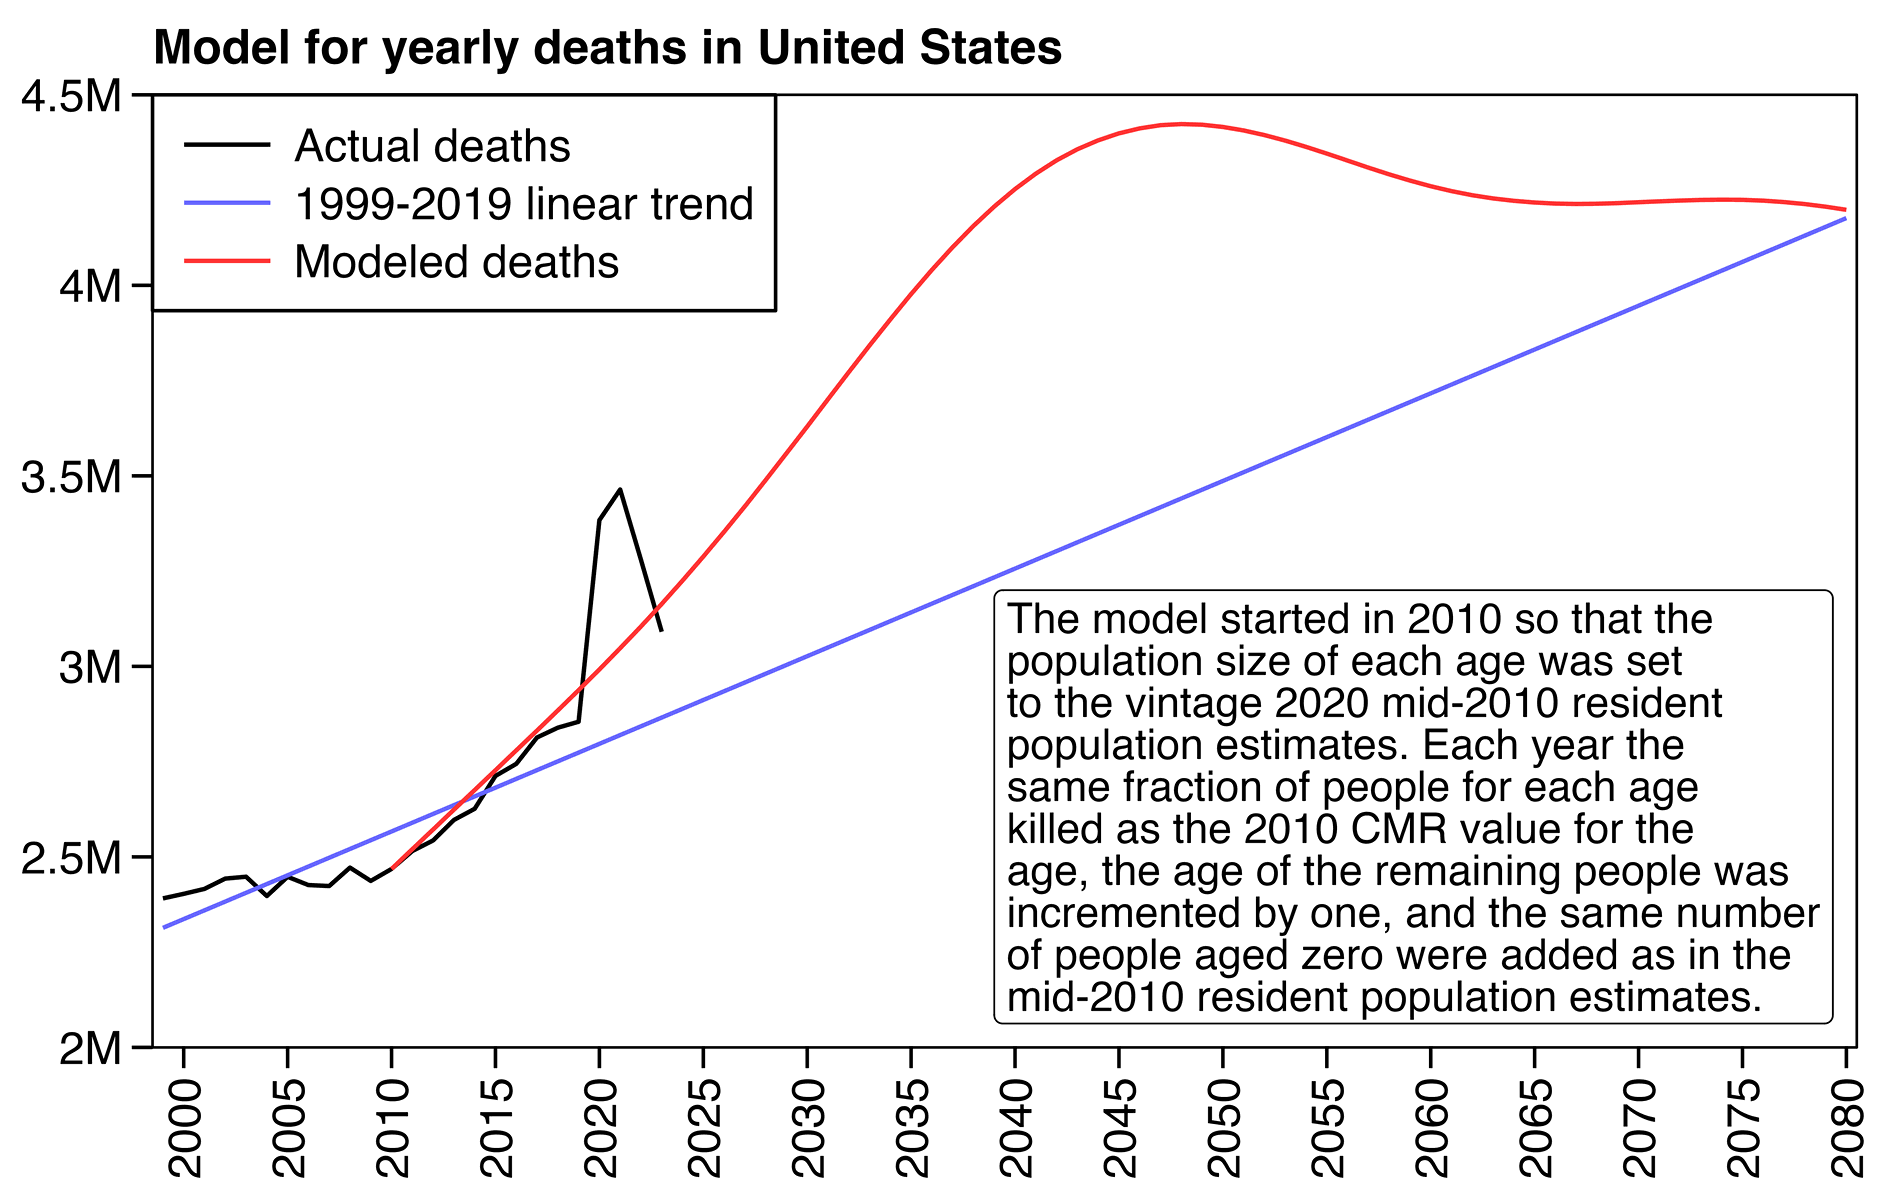
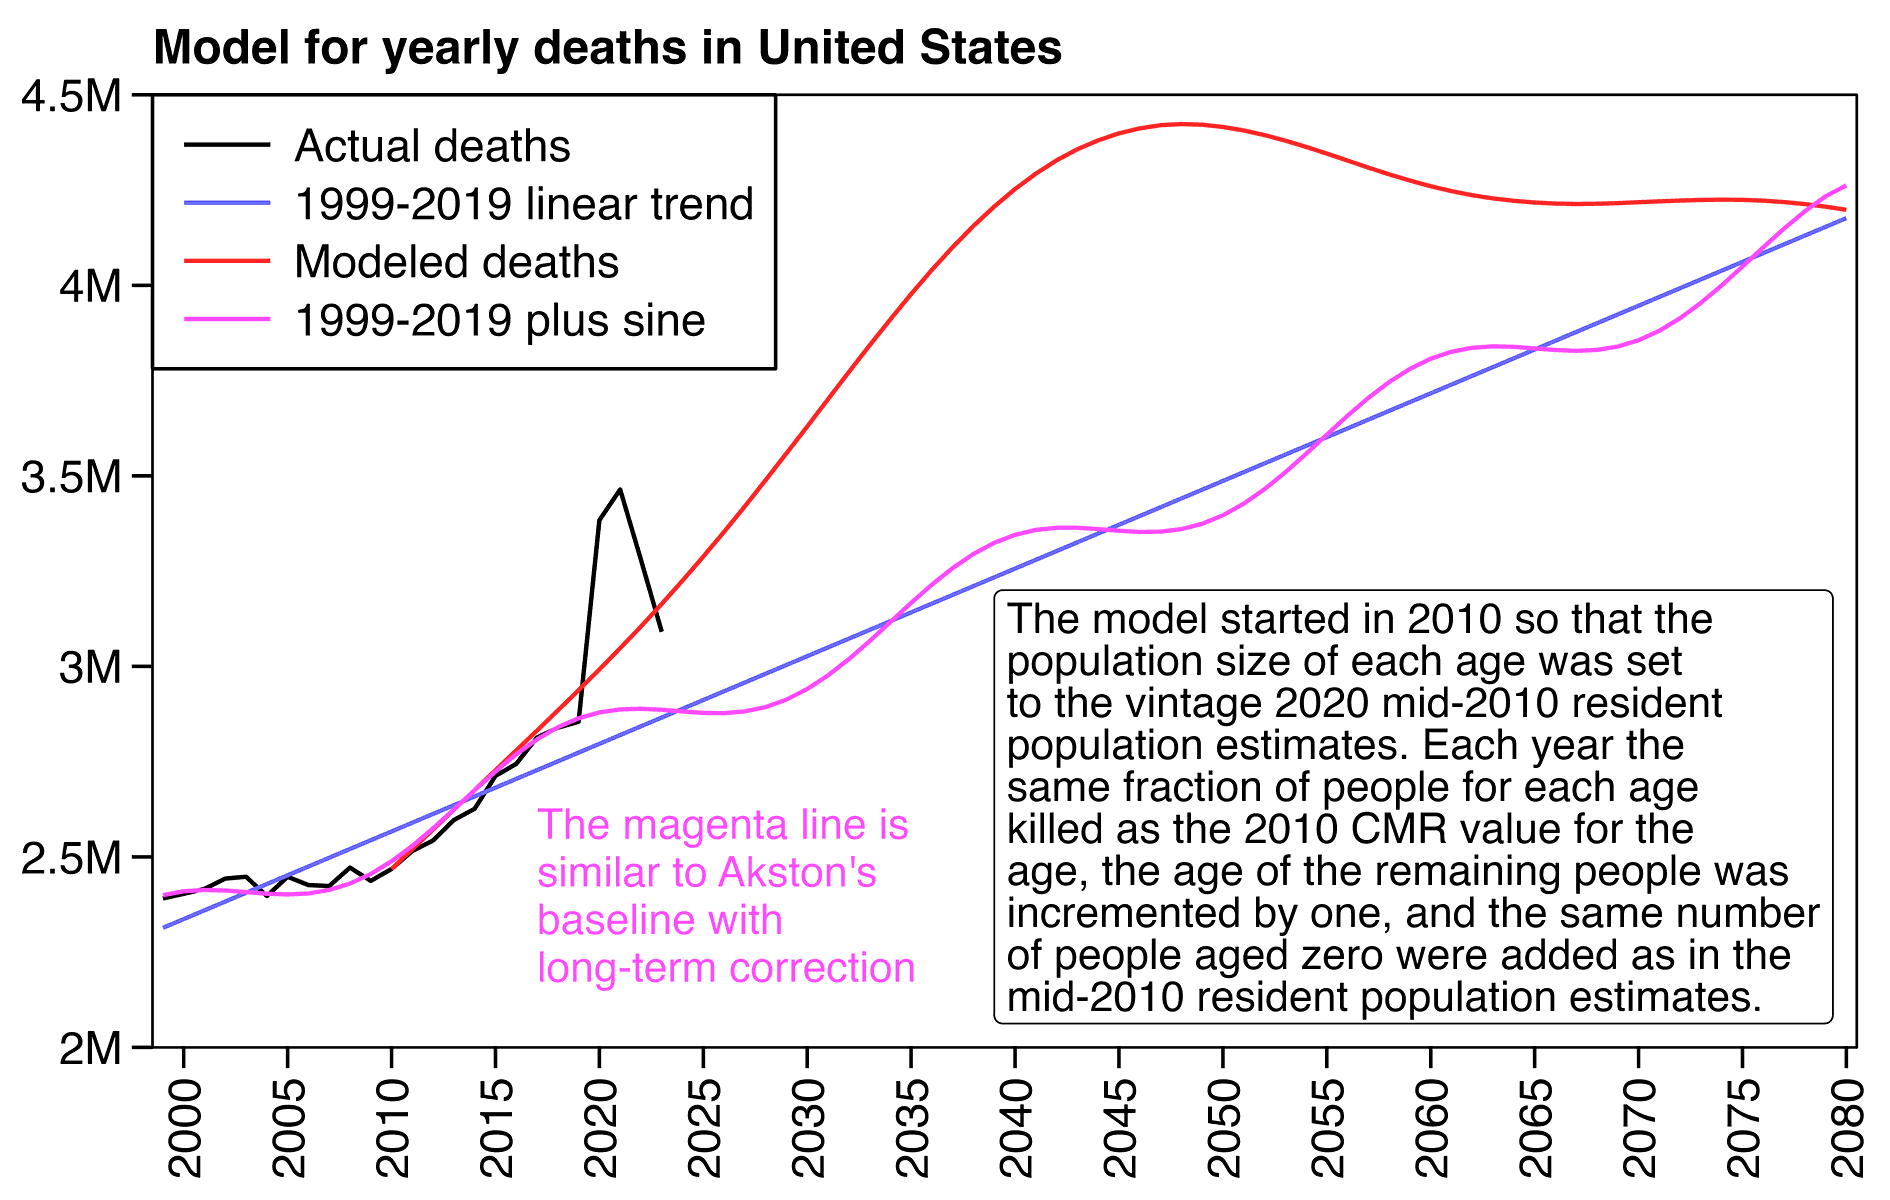
a

diff --git a/ethical2.html b/ethical2.html
@@ -69,7 +69,7 @@ blockquote blockquote blockquote,blockquote blockquote .quote,blockquote .quote 
 <li><a href=#PFE_arrival_function_determined_from_monthly_deaths_by_age>PFE arrival function determined from monthly deaths by age</a></li>
 <li><a href=#Deaths_with_secondary_thrombocytopenia>Deaths with secondary thrombocytopenia</a></li>
 <li><a href=#Deaths_from_natural_causes_in_ages_2_17>Deaths from natural causes in ages 2-17</a></li>
-<li><a href=#Cancer_mortality_in_ages_0_64_in_most_vaccinated_and_least_vaccinated_states>Cancer mortality in ages 0-64 in most-vaccinated and least vaccinated states</a></li>
+<li><a href=#Cancer_mortality_in_ages_0_64_in_most_vaccinated_and_least_vaccinated_states>Cancer mortality in ages 0-64 in most-vaccinated and least-vaccinated states</a></li>
 <li><a href=#Would_using_ASMR_instead_of_raw_deaths_produce_an_invalid_decline_in_mortality>Would using ASMR instead of raw deaths produce an invalid decline in mortality?</a></li>
 <li><a href=#Deaths_from_lung_cancer>Deaths from lung cancer</a></li>
 <li><a href=#Hugh_Akstons_corroboration_of_Ethical_Skeptics_plot_for_cancer_mortality>Hugh Akston's corroboration of Ethical Skeptic's plot for cancer mortality</a></li>
@@ -825,7 +825,7 @@ pheatmap::pheatmap(sign(m)*abs(m)^exp,filename=&quot;1.png&quot;,display_numbers
 system(&quot;convert 1.png -extent 2000x 1.png;w=`identify -format %w 1.png`;pad=26;magick -pointsize 44 -font Arial \\( -size $[w-pad] caption:&#39;NVSS, ages 2 to 17: Excess number of deaths by underlying cause of death relative to 2015-2019 linear trend, top 40 causes shown sorted by 2020-2022 total&#39; -splice $[pad]x24 \\) 1.png -append 1.png&quot;)</pre>
 </div>
 <h2>
-<a href=#Cancer_mortality_in_ages_0_64_in_most_vaccinated_and_least_vaccinated_states id=Cancer_mortality_in_ages_0_64_in_most_vaccinated_and_least_vaccinated_states>Cancer mortality in ages 0-64 in most-vaccinated and least vaccinated states</a>
+<a href=#Cancer_mortality_in_ages_0_64_in_most_vaccinated_and_least_vaccinated_states id=Cancer_mortality_in_ages_0_64_in_most_vaccinated_and_least_vaccinated_states>Cancer mortality in ages 0-64 in most-vaccinated and least-vaccinated states</a>
 </h2>
 <p>Ethical Skeptic posted this tweet: [<a href="https://x.com/EthicalSkeptic/status/1864758742954442778">https://x.com/EthicalSkeptic/status/1864758742954442778</a>]</p>
 <blockquote>
@@ -1042,7 +1042,7 @@ a=merge(fread(&quot;http://sars2.net/f/uspopdeadmonthly.csv&quot;),a)
 a[,x:=year*12+month]
 a=merge(a[year%in%2011:2019,.(x=unique(a$x),base=predict(lm(y/persondays~x),.(x=unique(a$x)))),.(age,type)],a)
 
-t=fread(&quot;d/cd/wonderlungcancerallage&quot;)[!(year==2024&amp;month&gt;=11)]
+t=fread(&quot;http://sars2.net/f/wonderlungcancerallage.csv&quot;)[!(year==2024&amp;month&gt;=11)]
 p=dcast(t,year+month~type,value.var=&quot;dead&quot;)
 p=p[,.(x=year*12+month,year,month,y=c(mcd,mcd-nafill(and,,0),ucd),type=rep(1:3,each=.N),group=1)]
 p=p[!(x&lt;t[type==&quot;and&quot;,min(year*12+month)]&amp;type==2)]
@@ -1280,85 +1280,70 @@ system(&quot;magick 1.png -resize 25% PNG8:1.png&quot;)</pre>
 Show code
 </button><pre>library(data.table);library(ggplot2)
 
-ua=\(x,y,...){u=unique(x);y(u,...)[match(x,u)]}
+xstart=1999;xend=2080
 
-t=fread(&quot;http://sars2.net/f/wondernatural.csv&quot;)[cause==&quot;A-Q&quot;&amp;date&lt;=&quot;2024-08&quot;]
-p=na.omit(t[,.(dead=sum(dead)),.(x=as.Date(paste0(date,&quot;-1&quot;)))])
-p[,dead:=dead/days_in_month(x)*30]
+t=fread(&quot;http://sars2.net/f/uspopdead.csv&quot;)
+p=t[,.(y=sum(dead),z=&quot;Actual deaths&quot;),.(x=year)]
+cmr=t[year==2010,dead/pop]
+pop=t[year==2010,pop]
+births=pop[1]
+sim=data.table(x=NA,y=NA)
+for(year in 2010:xend){
+  died=pop*cmr;pop=pop-died
+  pop=c(births,pop[1:99],sum(pop[100:101]))
+  sim=rbind(sim,list(year,sum(died)))
+}
 
-ages=t[,.(x=as.Date(paste0(date,&quot;-1&quot;)),age,dead)]
+p=rbind(p,p[,.(x=xstart:xend,y=p[x&lt;2020,predict(lm(y~x),.(x=xstart:xend))],z=&quot;1999-2019 linear trend&quot;)])
+p=rbind(p,sim[,z:=&quot;Modeled deaths&quot;])
+p[,z:=factor(z,unique(z))]
 
-p$linear=p[year(x)&lt;2020,predict(lm(dead~x),p)]
-p[,excess:=cumsum(dead-linear)]
-
-p2=copy(p)[,x:=as.integer(x)]
-fit=nls(excess~A*sin(B*x+C)+D,p2[year(p$x)&lt;2020],
-  list(A=(max(p2$excess)-min(p2$excess))/2,B=2*pi/(max(p2$x)-min(p2$x)),C=0,D=mean(p2$excess)),
+excess=merge(p[z==levels(z)[1]],p[z==levels(z)[2],.(x,y2=y)])[x&lt;2020,.(x,y=cumsum(y-y2))]
+fit=nls(y~A*sin(B*x+C)+D,excess,
+  list(A=excess[,max(y)-min(y)]/2,B=2*pi/excess[,max(x)-min(x)],C=0,D=mean(excess$y)),
   nls.control(maxiter=100,tol=1e-6))
-p$sine=predict(fit,p2)
 
-a=t[,.(x=as.Date(paste0(date,&quot;-1&quot;)),age,dead)]
-pop=fread(&quot;http://sars2.net/f/uspopdeadmonthly.csv&quot;)
-a=merge(a,pop[,.(pop=sum(persondays)),.(x=as.Date(paste0(date,&quot;-1&quot;)),age=cul(age,unique(a$age)))])
-a=merge(a,a[,.(x=unique(a$x),base=predict(lm(dead/pop~x),a[rowid(x)==1])),age])
+pred=diff(predict(fit,.(x=1998:2080)))[-1]
+p=rbind(p,p[z==levels(z)[2]][,y:=y+pred][,z:=&quot;1999-2019 plus sine&quot;])
 
-p$sinecum=p[,excess-sine]
-
-# sars2.net/stat.html#Download_fixed_width_and_CSV_files_for_the_NVSS_data_used_at_CDC_WONDER
-v=fread(&quot;vital.csv.gz&quot;)
-v=v[year%in%2011:2019&amp;ua(cause,like,&quot;[A-Q]&quot;)][,.(dead=sum(ucd)),.(year,month,age=pmin(age,100))]
-pop[,date:=as.Date(paste0(date,&quot;-1&quot;))]
-v=merge(pop[,.(age,year,month,date,persondays)],v)
-v=merge(pop,v[,.(date=unique(p$x),base=predict(lm(dead/persondays~date),.(date=unique(p$x)))),age])
-p$vital=v[,sum(base*persondays/days_in_month(date)*30),date]$V1
-p[year(x)==2010,vital:=NA]
-p$vitalexcess=p[,ifelse(is.na(vital),NA,cumsum(nafill(dead-vital,,0)))]
-
-p=melt(p,id=1,,&quot;z&quot;,&quot;y&quot;)
-p[,z:=factor(z,unique(z),c(&quot;Deaths&quot;,&quot;1999-2019 linear trend in deaths&quot;,&quot;Cumulative excess over 1999-2019 linear trend&quot;,&quot;Sine wave fitted to 1999-2019 cumulative excess&quot;,&quot;Difference between cumulative excess and sine wave&quot;,&quot;2011-2019 trend in CMR by age&quot;,&quot;Cumulative excess over 2011-2019 trend in CMR by age&quot;))]
-
-xstart=as.Date(&quot;1999-1-1&quot;);xend=as.Date(&quot;2025-1-1&quot;)
-p=p[x&gt;=xstart&amp;x&lt;=xend]
-xbreak=seq(xstart+182,xend,&quot;year&quot;);xlab=year(xbreak)
+xbreak=seq(2000,xend,5)
 ybreak=pretty(p$y,7);ystart=ybreak[1];yend=max(ybreak)
 
-note=p[,.(z=levels(z)[c(5,7)],x=xend-c(460,350),y=c(55e4,7e4),label=c(&quot;Excess over\nAkston&#39;s\ninaccurate\nbaseline&quot;,&quot;Excess\nover my\naccurate\nbaseline&quot;))]
+note=stringr::str_wrap(&quot;The model started in 2010 so that the population size of each age was set to the vintage 2020 mid-2010 resident population estimates. Each year the same fraction of people for each age killed as the 2010 CMR value for the age, the age of the remaining people was incremented by one, and the same number of people aged zero were added as in the mid-2010 resident population estimates.&quot;,40)
 
-ggplot(p,aes(x=x+14,y))+
-geom_vline(xintercept=seq(xstart,xend,&quot;year&quot;),color=&quot;gray83&quot;,linewidth=.4)+
+ggplot(p,aes(x=x,y))+
 geom_hline(yintercept=0,linewidth=.4)+
-geom_line(aes(color=z,linetype=z),linewidth=.5)+
-geom_text(data=note,aes(color=z,label=label),size=3,hjust=1,lineheight=.9,show.legend=F)+
-labs(x=NULL,y=NULL,title=&quot;CDC WONDER: Monthly deaths with underlying cause A-Q&quot;,subtitle=&quot;Divided by number of days in month and multiplied by 30. Excludes UCD external causes, COVID, and R and X codes.&quot;|&gt;stringr::str_wrap(74))+
-scale_x_continuous(limits=c(xstart,xend),breaks=xbreak,labels=xlab)+
-scale_y_continuous(limits=c(ystart,yend),breaks=ybreak,labels=\(x)ifelse(x==0,0,paste0(x/1e3,&quot;k&quot;)))+
-scale_color_manual(values=c(&quot;black&quot;,&quot;black&quot;,&quot;#881111&quot;,&quot;#881111&quot;,&quot;#cc2222&quot;,&quot;#007700&quot;,&quot;#22aa22&quot;))+
-scale_linetype_manual(values=c(&quot;solid&quot;,&quot;42&quot;,&quot;solid&quot;,&quot;42&quot;,&quot;solid&quot;,&quot;42&quot;,&quot;solid&quot;))+
+geom_line(aes(color=z),linewidth=.5)+
+labs(x=NULL,y=NULL,title=&quot;Model for yearly deaths in United States&quot;)+
+scale_x_continuous(limits=c(xstart-.5,xend+.5),breaks=xbreak)+
+scale_y_continuous(limits=c(ystart,yend),breaks=ybreak,labels=\(x)paste0(x/1e6,&quot;M&quot;))+
+scale_color_manual(values=c(&quot;black&quot;,&quot;#6666ff&quot;,&quot;#ff3333&quot;,&quot;#ff55ff&quot;))+
+annotate(geom=&quot;label&quot;,x=2039,y=32e5,vjust=1,label=note,label.r=unit(2,&quot;pt&quot;),label.padding=unit(3,&quot;pt&quot;),label.size=.2,size=3.6,lineheight=.82,hjust=0)+
+annotate(geom=&quot;text&quot;,x=2017,y=2.4e6,label=&quot;The magenta line is\nsimilar to Akston&#39;s\nbaseline with\nlong-term correction&quot;,hjust=0,size=3.6,lineheight=.93,color=&quot;#ff55ff&quot;)+
 coord_cartesian(clip=&quot;off&quot;,expand=F)+
 theme(axis.text=element_text(size=11,color=&quot;black&quot;),
   axis.text.x=element_text(angle=90,vjust=.5,hjust=1),
   axis.ticks=element_line(linewidth=.4,color=&quot;black&quot;),
-  axis.ticks.length.x=unit(0,&quot;pt&quot;),
-  axis.ticks.length.y=unit(5,&quot;pt&quot;),
+  axis.ticks.length=unit(5,&quot;pt&quot;),
   legend.background=element_blank(),
   legend.box.background=element_rect(color=&quot;black&quot;,linewidth=.4),
+  legend.box.spacing=unit(0,&quot;pt&quot;),
   legend.direction=&quot;vertical&quot;,
   legend.justification=c(0,1),
   legend.key=element_blank(),
-  legend.key.height=unit(11,&quot;pt&quot;),
-  legend.key.width=unit(29,&quot;pt&quot;),
-  legend.margin=margin(4,4,4,4),
+  legend.key.height=unit(14,&quot;pt&quot;),
+  legend.key.width=unit(26,&quot;pt&quot;),
   legend.position=c(0,1),
-  legend.spacing.x=unit(2,&quot;pt&quot;),
+  legend.spacing.x=unit(3,&quot;pt&quot;),
   legend.spacing.y=unit(0,&quot;pt&quot;),
+  legend.margin=margin(5,5,5,5),
   legend.text=element_text(size=11,vjust=.5),
   legend.title=element_blank(),
   panel.background=element_blank(),
-  panel.border=element_rect(fill=NA,linewidth=.4),
-  plot.margin=margin(5,5,5,4),
-  plot.subtitle=element_text(size=11,margin=margin(,,5)),
-  plot.title=element_text(size=11.5,face=2,margin=margin(2,,4)))
-ggsave(&quot;1.png&quot;,width=6.3,height=4.1,dpi=300*4)
+  panel.border=element_rect(fill=NA,linewidth=.3),
+  plot.margin=margin(6,8,5,5),
+  plot.title=element_text(size=11.5,face=2,margin=margin(1,,5)))
+ggsave(&quot;1.png&quot;,width=6.3,height=4,dpi=300*4)
 system(&quot;magick 1.png -resize 25% PNG8:1.png&quot;)</pre>
 </div>
 <p>In the plot above if you compare the red line for my model against the black line for the real number of deaths in 2011-2019, my model has a slightly higher number of deaths, but it's because in real life elderly age groups had a decreasing trend in age-specific mortality rates in the 2010s but in my model I used 2010 CMR values for each age indefinitely.</p>
